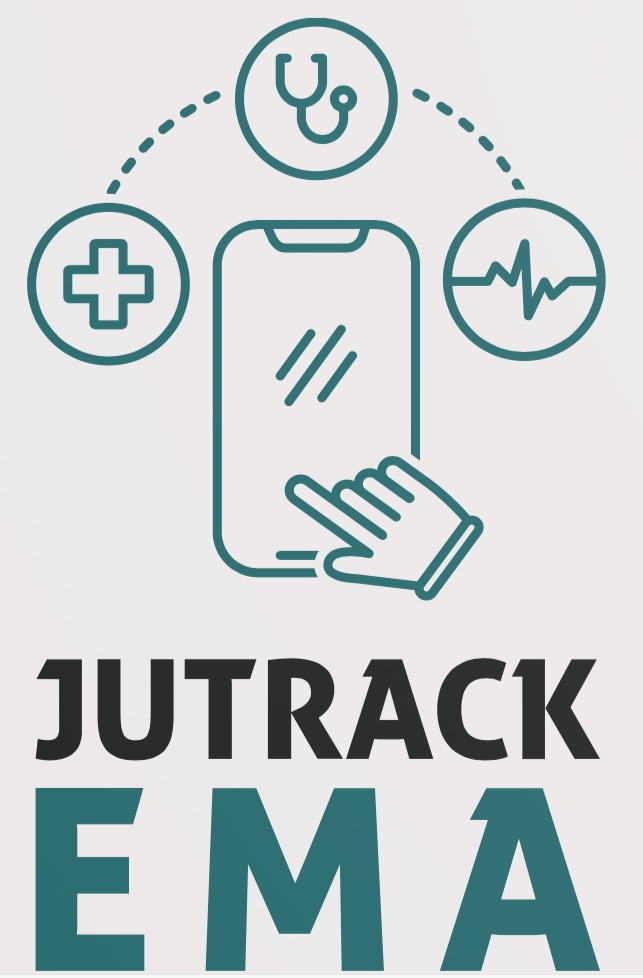
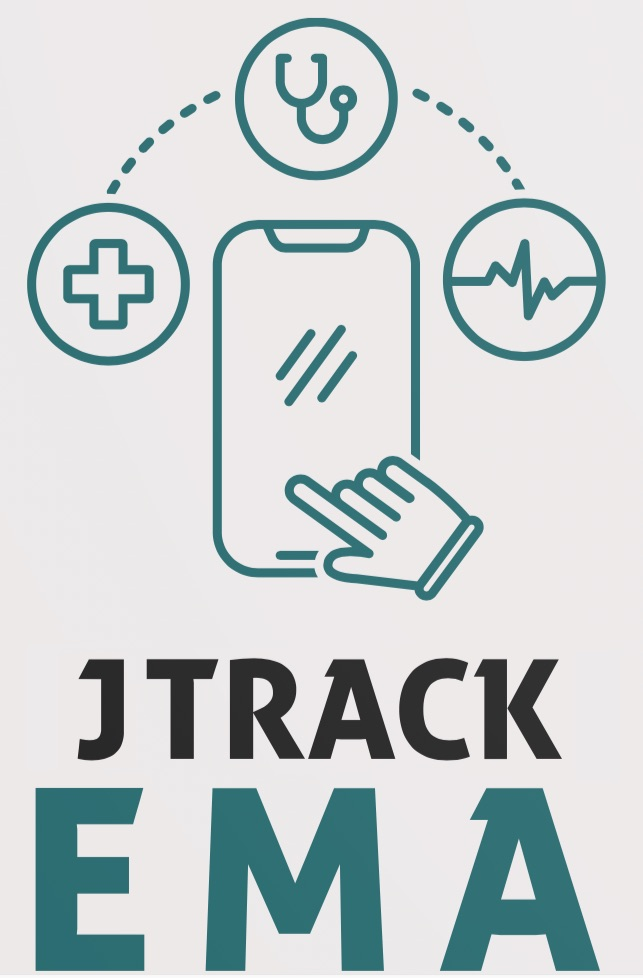
garmin image and updated EMA image

Changed region(s): [[0.0622, 0.6748, 0.9331, 0.7975]]

diff --git a/docs/source/_templates/footer.html b/docs/source/_templates/footer.html
@@ -17,11 +17,25 @@
   <div style="margin-top: 1em;"></div>
 
   <!-- Second row: Brain & Behaviour -->
-  <div>
-    <a href="https://www.fz-juelich.de/inm/inm-7/DE/Home/home_node.html" target="_blank" rel="noopener">
-      <img src="_static/bb-icon.png" style="height:50px; margin:0 1em;" alt="Brain & Behaviour">
-    </a>
-  </div>
+ <div style="display:flex; align-items:center;">
+  <a href="https://www.fz-juelich.de/inm/inm-7/DE/Home/home_node.html"
+     target="_blank"
+     rel="noopener"
+     style="margin-right:24px;">
+    <img src="_static/bb-icon.png"
+         style="height:50px;"
+         alt="Brain & Behaviour">
+  </a>
+
+  <a href="https://www.garmin.com/de-DE/"
+     target="_blank"
+     rel="noopener"
+     style="background:white; padding:6px 10px 6px 10px; margin-right:8px;">
+    <img src="_static/garmin.svg"
+         style="height:38px;"
+         alt="Garmin">
+  </a>
+</div>
 
   <!-- Spacer -->
   <div style="margin-top: 1em;"></div>
@@ -35,6 +49,6 @@
 
   <!-- Copyright -->
   <p style="text-align: center; margin-top: 1em;">
-    &copy; 2025, INM7 &mdash; Powered by Sphinx &amp; Furo
+    &copy; 2026, INM7 &mdash; Powered by Sphinx &amp; Furo
   </p>
 </div>